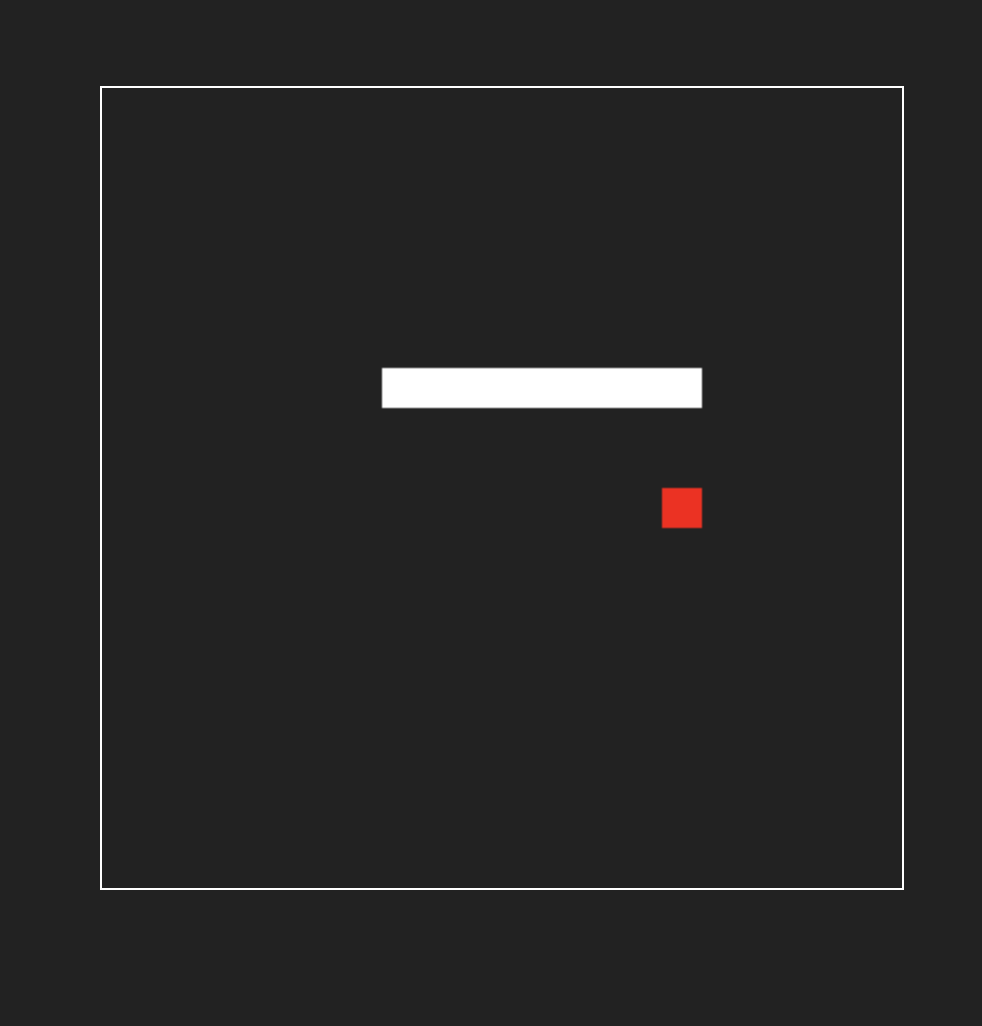
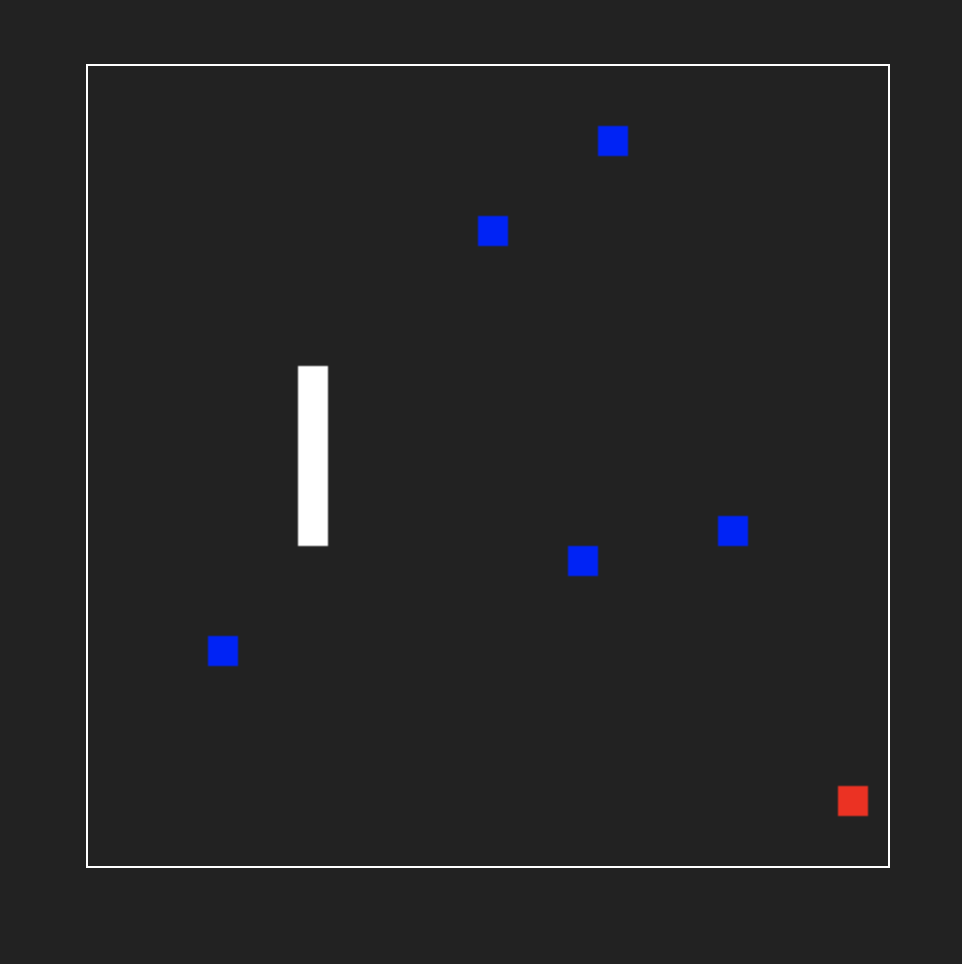
Add obstacles

diff --git a/snake.js b/snake.js
@@ -1,11 +1,14 @@
 const canvas = document.getElementById('gameCanvas');
 const ctx = canvas.getContext('2d');
 
-const scale = 20;
+const scale = 15;
+const numberOfObstacles = 5;
+
 const rows = canvas.height / scale;
 const columns = canvas.width / scale;
 
 let snake;
+let obstacles = [];
 
 (function setup() {
     snake = new Snake();
@@ -13,11 +16,21 @@ let snake;
 
     fruit.pickLocation();
 
+    for (let i = 0; i < numberOfObstacles; i++) {
+        const obstacle = new Obstacle();
+        obstacle.pickLocation();
+        obstacles.push(obstacle);
+    }
+
     window.setInterval(() => {
         ctx.clearRect(0, 0, canvas.width, canvas.height);
         fruit.draw();
         snake.update();
         snake.draw();
+
+        for (const obstacle of obstacles) {
+            obstacle.draw();
+        }
 
         if (snake.eat(fruit)) {
             fruit.pickLocation();
@@ -93,6 +106,16 @@ function Snake() {
             this.xSpeed = scale;
             this.ySpeed = 0;
         }
+
+        // Check for collisions with obstacles
+        if (this.collidesWithObstacle(obstacles)) {
+            this.total = 0;
+            this.tail = [];
+            this.x = 0;
+            this.y = 0;
+            this.xSpeed = scale;
+            this.ySpeed = 0;
+        }
     }
 
     this.changeDirection = function(direction) {
@@ -133,6 +156,15 @@ function Snake() {
             }
         }
     }
+
+    this.collidesWithObstacle = function (obstacles) {
+      for (const obstacle of obstacles) {
+          if (this.x === obstacle.x && this.y === obstacle.y) {
+              return true;
+          }
+      }
+      return false;
+  }
 }
 
 function Fruit() {
@@ -146,6 +178,21 @@ function Fruit() {
 
     this.draw = function() {
         ctx.fillStyle = "#f00";
+        ctx.fillRect(this.x, this.y, scale, scale);
+    }
+}
+
+function Obstacle() {
+    this.x;
+    this.y;
+
+    this.pickLocation = function () {
+        this.x = (Math.floor(Math.random() * columns - 1) + 1) * scale;
+        this.y = (Math.floor(Math.random() * rows - 1) + 1) * scale;
+    }
+
+    this.draw = function () {
+        ctx.fillStyle = "#00f";
         ctx.fillRect(this.x, this.y, scale, scale);
     }
 }

diff --git a/README.md b/README.md
@@ -4,6 +4,8 @@ It's snake geme built by ChatGPT4. Inspired by [Web Summit Rio 2023: Building an
 
 <img src="./snake.png" alt="Snake Game Play Image" title="Snake Game Play Image" width="520" />
 
+[Play Now!!](https://nipe0324.github.io/cobra-with-gpt/)
+
 ## Prompts
 
 #### User: What is snake game?
@@ -247,3 +249,92 @@ this.update = function () {
 Now, when the snake's head hits any screen edge, the game will reset the snake's size and position, and the snake will start moving to the right.
 
 Save the changes in the `snake.js` file, and refresh the `index.html` file in your browser to see the updated behavior.
+
+#### How to add obstacles to the game?
+
+To add obstacles to the Snake game, you can create a new object called Obstacle and modify the game loop to include generating and drawing obstacles. Here's how you can do this:
+
+1. In the `snake.js` file, create the` Obstacle` object with a constructor function, similar to the `Fruit` object:
+
+```js
+function Obstacle() {
+    this.x;
+    this.y;
+
+    this.pickLocation = function () {
+        this.x = (Math.floor(Math.random() * columns - 1) + 1) * scale;
+        this.y = (Math.floor(Math.random() * rows - 1) + 1) * scale;
+    }
+
+    this.draw = function () {
+        ctx.fillStyle = "#00f";
+        ctx.fillRect(this.x, this.y, scale, scale);
+    }
+}
+```
+
+2. Create an array to store multiple obstacles and modify the `setup` function to generate a given number of obstacles:
+
+```js
+let obstacles = [];
+const numberOfObstacles = 5;
+
+(function setup() {
+    // ... existing code ...
+
+    for (let i = 0; i < numberOfObstacles; i++) {
+        const obstacle = new Obstacle();
+        obstacle.pickLocation();
+        obstacles.push(obstacle);
+    }
+
+    // ... existing code ...
+}());
+```
+
+3. Modify the game loop to draw the obstacles:
+
+```js
+window.setInterval(() => {
+    // ... existing code ...
+
+    for (const obstacle of obstacles) {
+        obstacle.draw();
+    }
+
+    // ... existing code ...
+}, 250);
+```
+
+4. Add a method to the `Snake` object to check for collisions with obstacles:
+
+```js
+this.collidesWithObstacle = function (obstacles) {
+    for (const obstacle of obstacles) {
+        if (this.x === obstacle.x && this.y === obstacle.y) {
+            return true;
+        }
+    }
+    return false;
+}
+```
+
+5. Update the `update` function to check for collisions with obstacles and reset the snake if it collides with any obstacle:
+
+```js
+this.update = function () {
+    // ... existing code ...
+
+    // Check for collisions with obstacles
+    if (this.collidesWithObstacle(obstacles)) {
+        this.total = 0;
+        this.tail = [];
+        this.x = 0;
+        this.y = 0;
+        this.xSpeed = scale;
+        this.ySpeed = 0;
+    }
+}
+```
+
+Now, when you save the changes in the `snake.js` file and refresh the `index.html` file in your browser, you should see obstacles on the game screen. The snake will reset its size and position if it collides with any of the obstacles. You can adjust the `numberOfObstacles` variable to change the number of obstacles in the game.
